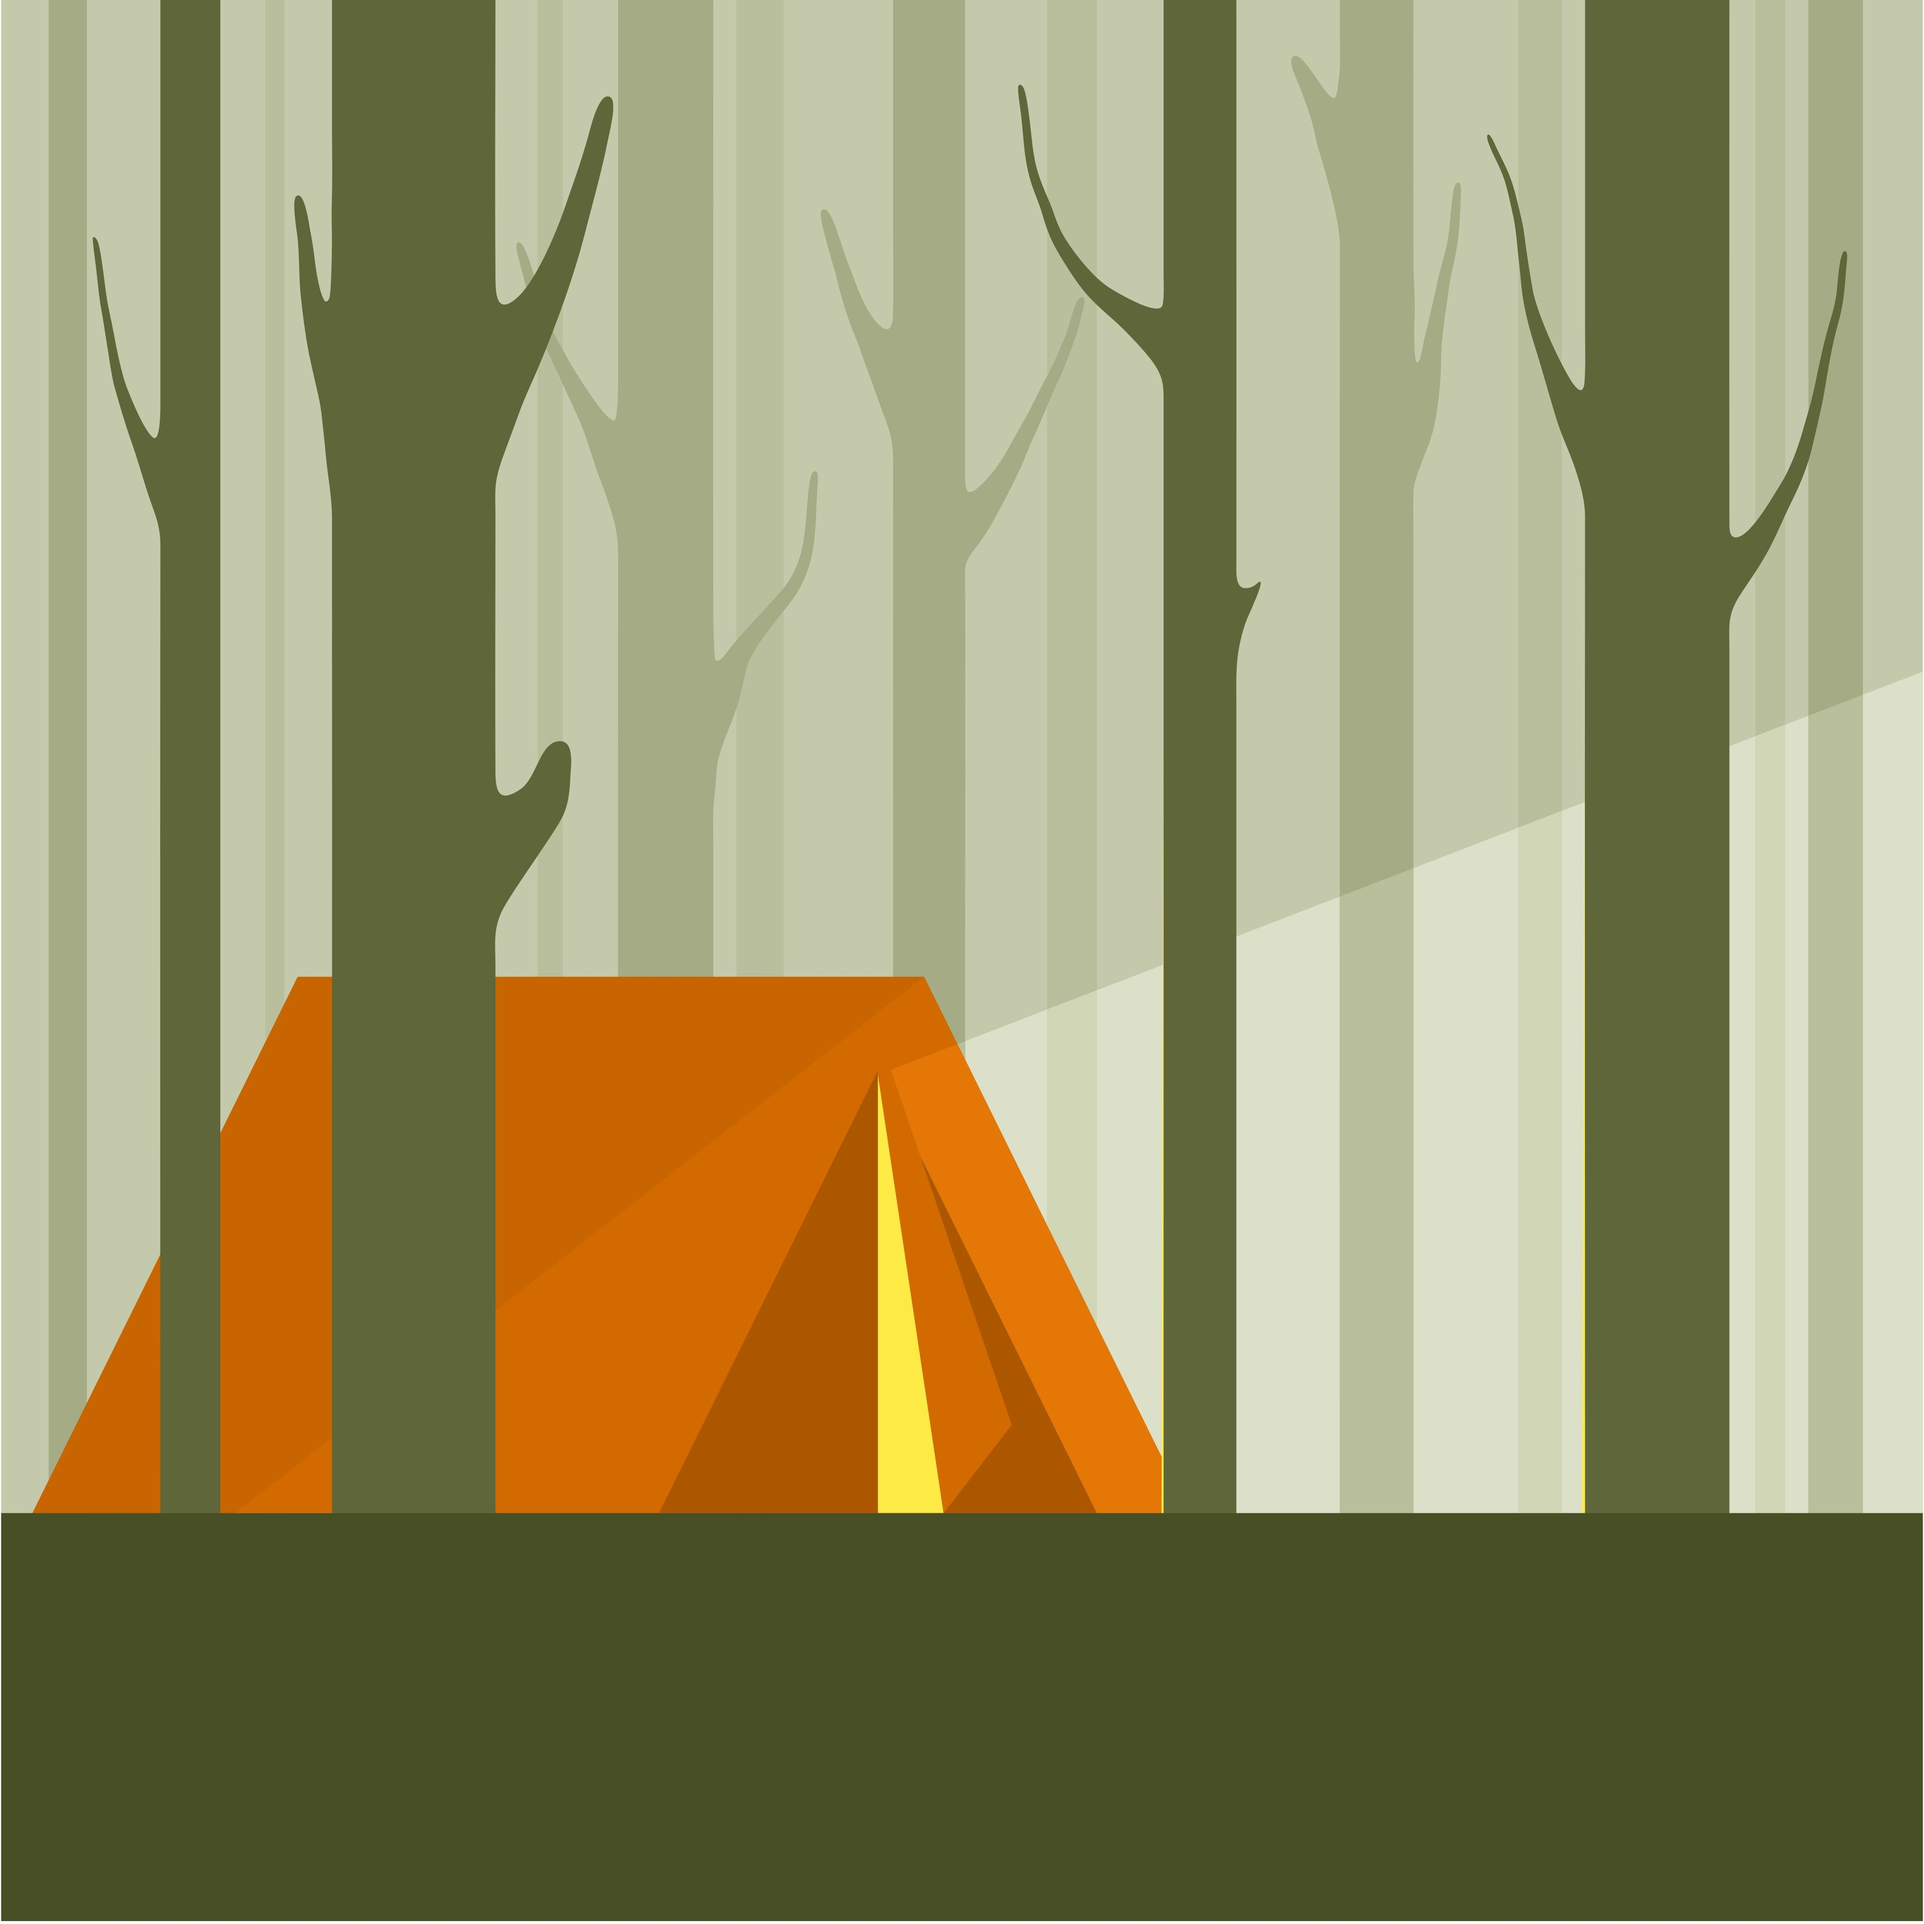
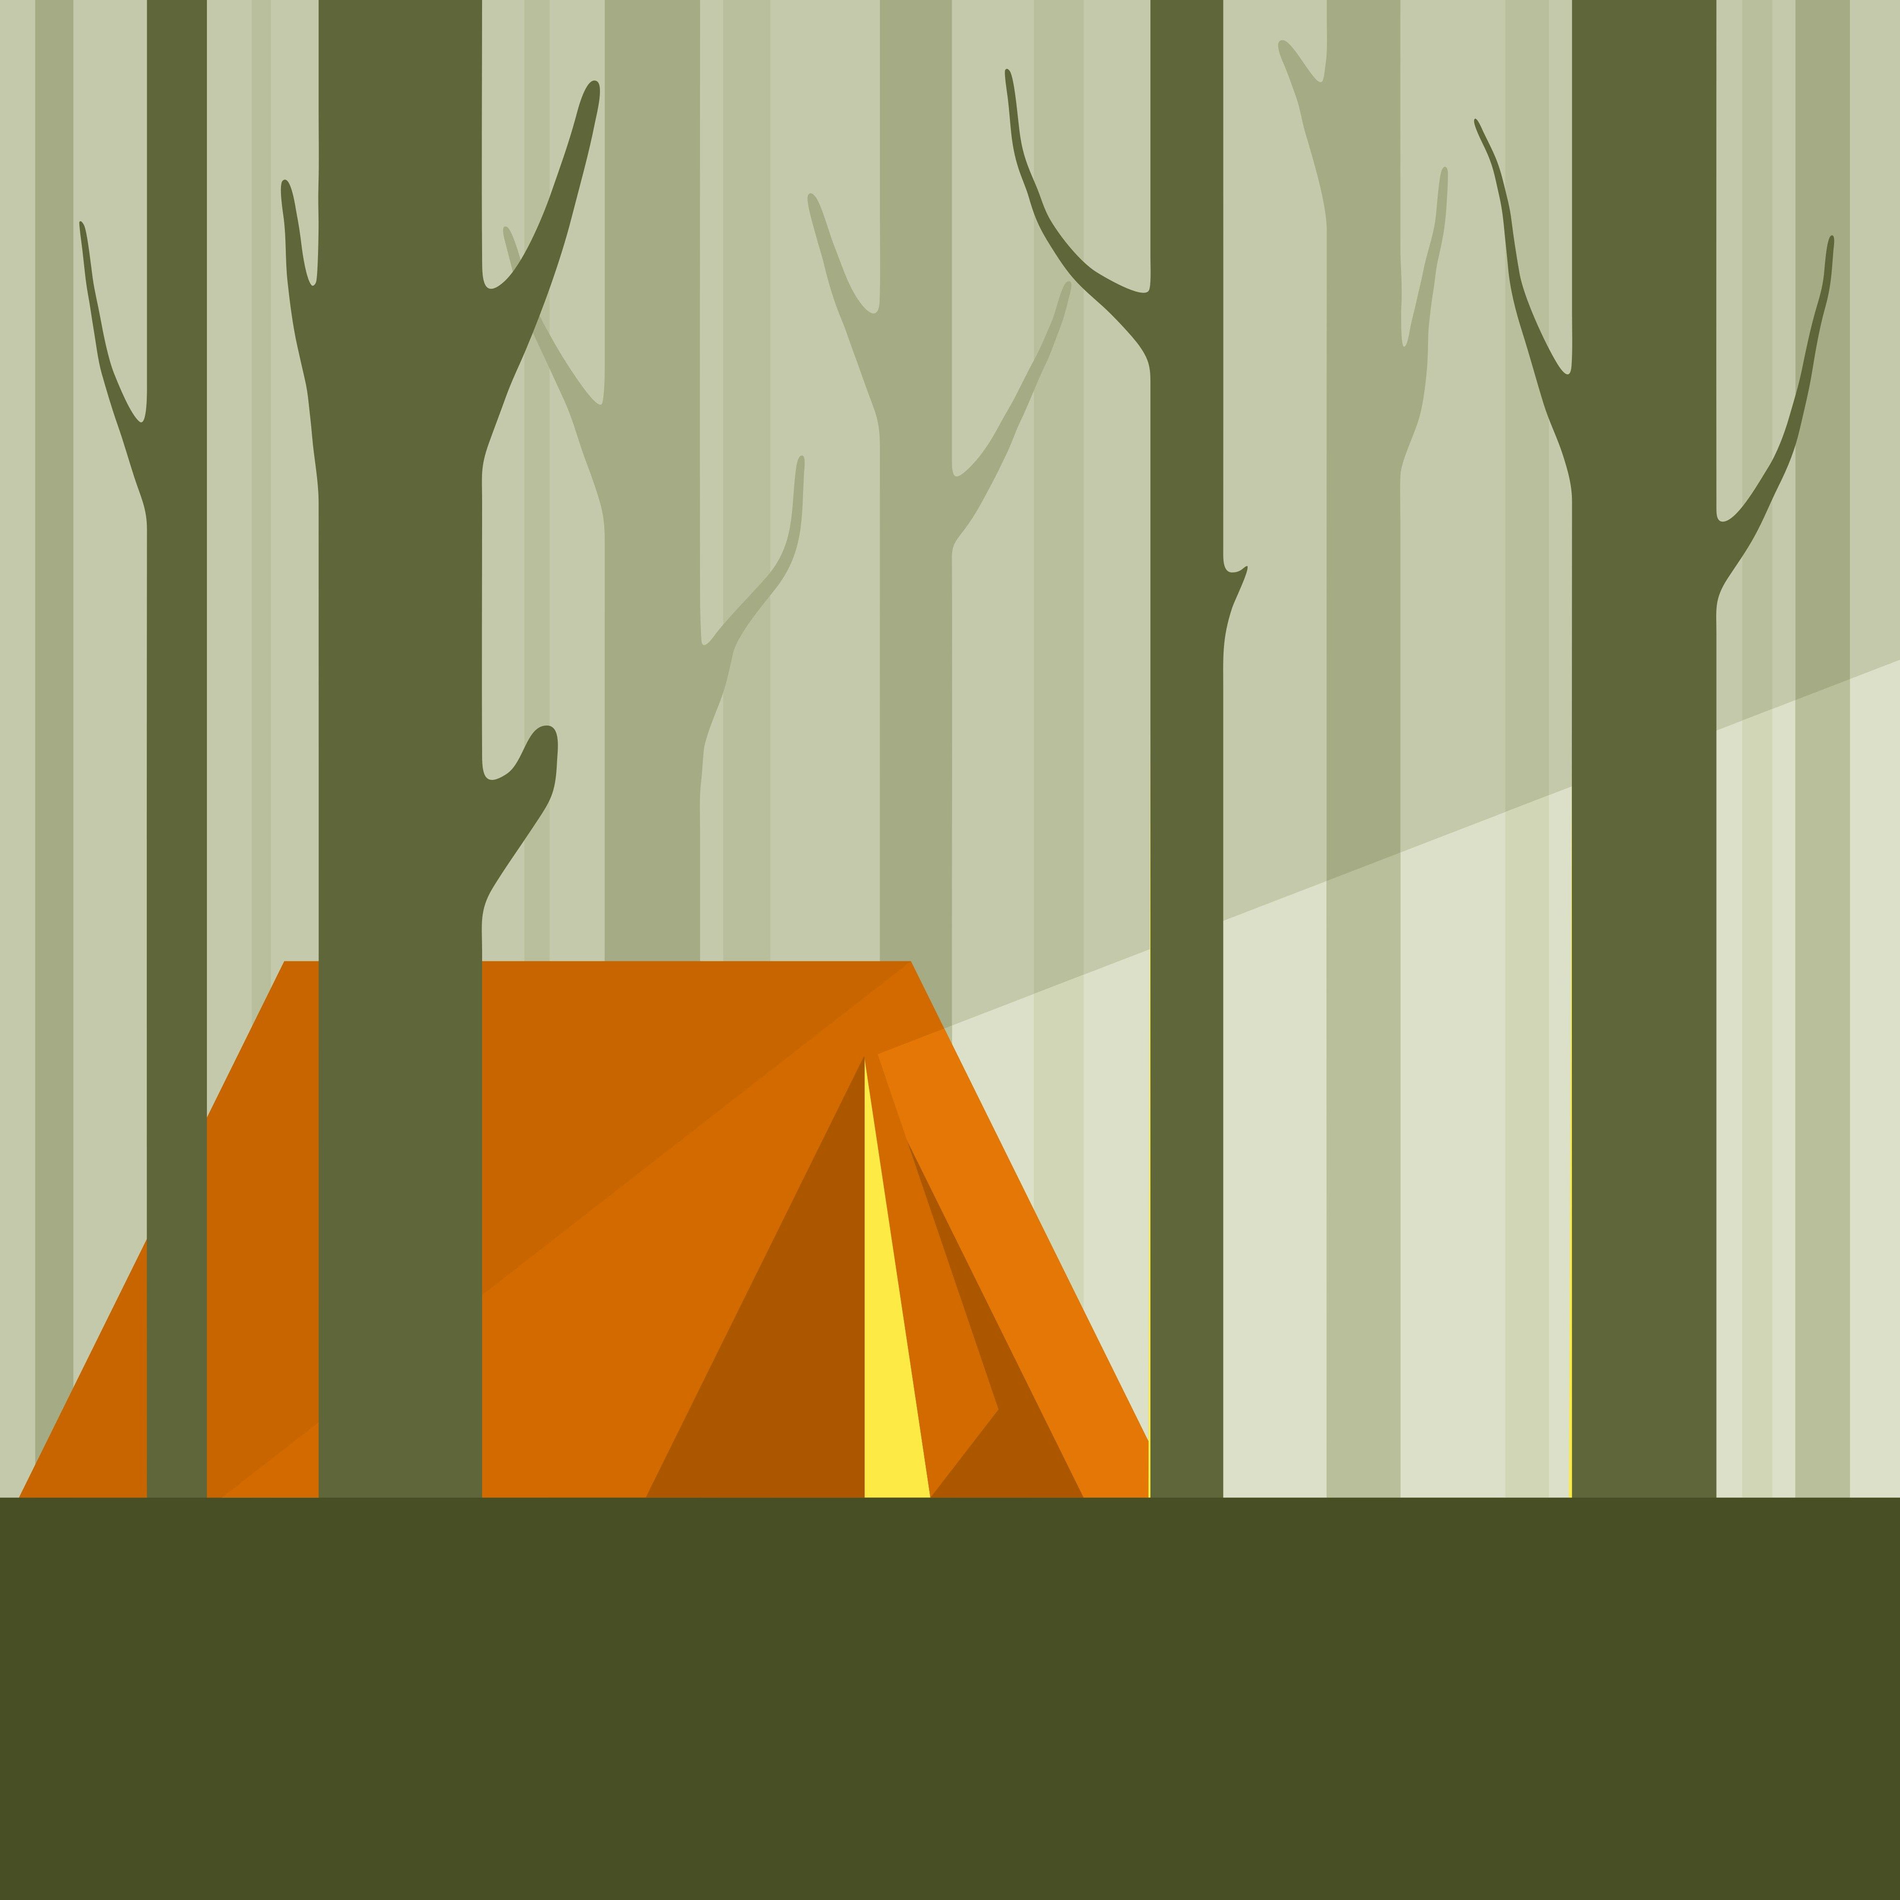
Gjort responsivitet på hela startsidan

diff --git a/style.css b/style.css
@@ -357,23 +357,18 @@ a {
 }
 
 .gallery {
-  /* background-color: var(--light-beige); */
-
   background-color: var(--dark-green);
-  /* .gallery__image {
-    background-color: var(--light-beige);
-    padding: 1rem;
-  } */
 
   display: grid;
   grid-template-columns: 1fr 1fr;
-  grid-template-rows: 1fr 1fr;
+  /* grid-template-rows: 1fr 1fr; */
 
   gap: 4rem;
   padding: 15rem 4rem 4rem;
   margin-top: -7rem;
 
   .gallery__text-area {
+    padding: 1rem;
     display: flex;
     flex-direction: column;
     justify-content: center;
@@ -388,6 +383,32 @@ a {
       font-size: 1.75rem;
       line-height: 2rem;
     }
+  }
+
+  @media screen and (max-width: 900px) {
+    gap: 2rem;
+    padding: 12rem 2rem 4rem;
+  }
+
+  @media screen and (max-width: 700px) {
+    gap: 1rem;
+    padding: 10rem 1rem 4rem;
+
+    .gallery__text-area {
+      .gallery__text-area__text {
+        font-size: 1.25rem;
+        line-height: 150%;
+      }
+
+      .button {
+        font-size: 1.25rem;
+        padding: 0.5rem 1rem;
+      }
+    }
+  }
+
+  @media screen and (max-width: 600px) {
+    grid-template-columns: 1fr;
   }
 }
 
@@ -463,9 +484,13 @@ a {
 
 .projects {
   margin-top: 5rem;
+  display: flex;
+  flex-direction: column;
+  align-items: flex-start;
 
   .projects__heading {
     display: inline-block;
+    justify-self: flex-start;
     background-color: rgba(255, 255, 255, 0.8);
     background-blend-mode: overlay;
     border-radius: 10px;
@@ -479,8 +504,10 @@ a {
     color: black;
   }
   .project__cards {
+    padding: 3rem;
     height: 100%;
     display: flex;
+    flex-wrap: wrap;
     justify-content: center;
     gap: 2rem;
     margin-top: 3rem;
@@ -522,11 +549,34 @@ a {
       /* align-self: center; */
     }
   }
+
+  @media screen and (max-width: 780px) {
+    padding: 2rem;
+
+    .projects__heading {
+      margin-left: auto;
+      margin-right: auto;
+      /* align-self: center; */
+    }
+
+    .project__cards {
+      margin-top: 0;
+    }
+  }
+
+  @media screen and (max-width: 650px) {
+    margin-top: 0;
+    padding: 0;
+
+    .project__cards {
+      padding: 3rem;
+    }
+  }
 }
 
-.projects {
+/* .projects {
   height: 100%;
-}
+} */
 
 .above-footer {
   height: 150px;
